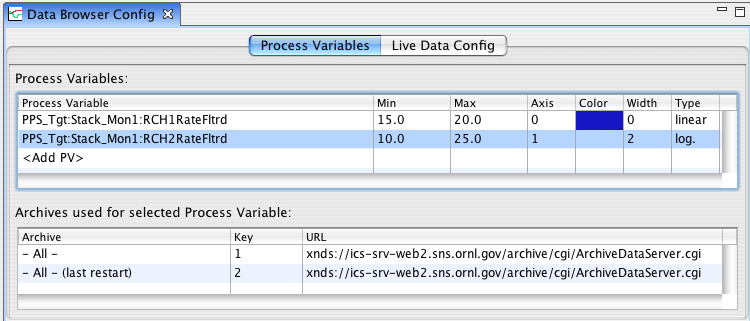
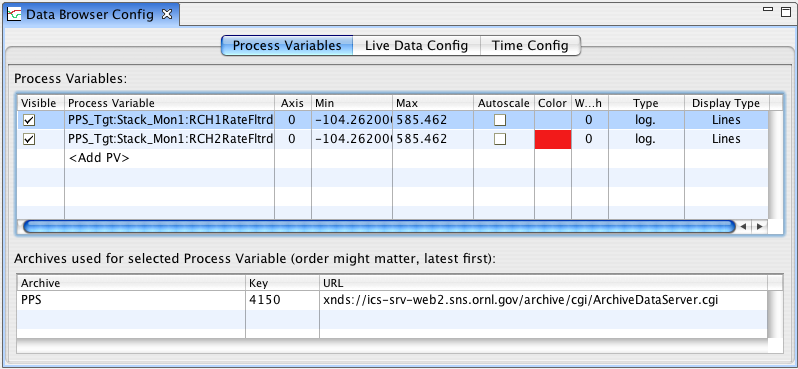
help update

diff --git a/applications/plugins/org.csstudio.trends.databrowser/html/setup.html b/applications/plugins/org.csstudio.trends.databrowser/html/setup.html
@@ -10,7 +10,7 @@ You can open a new Data Browser via the menu item
 <p>
 This will result in an empty plot window
 to which one can then <a href=add_pvs.html>add PVs</a>.
-One can create more than one Data Browser instance.
+You can open more than one Data Browser instance.
 
 <h2>Data Browser Perspective</h2>
 Especially for first-time users it might be
@@ -27,10 +27,11 @@ and select the <pre>Data Browser Perspective</pre> menu item.
 If your screen differs significantly from the snapshow
 shown below, somebody has already customized the
 Data Browser Perspective.
-If you want to reset it, select the menu item
-<pre>Window/Reset Perspective</pre>
+If you want to reset it, select the context menu of the
+perspective (right click on the "Data Browser" tab)
+and select "Reset".
 <p>
-<img src=perspective.png width=785 height=715>
+<img src=perspective.png width=1015 height=650>
 
 <h2>Stopping a Data Browser Instance</h2>
 You can simply close a Data Browser Plot window via the usual
@@ -46,20 +47,16 @@ saving it.
 
 <h2>The Workspace, "Project" Folders</h2>
 All configuration files are saved in "Project" folders in the "Workspace".
-When starting for the very first time, you might have to create
-an initial "Project" folder.
-At later times, you might want to create additional "Project" folders
-to better organize your files.
-<p>
-To create a "Project" folder:
+The CSS Application will create an initial "CSS" project folder for you.
+To create additional ones to better organize your files:
 <ol>
-<li>Unless it is already open, obtain a "Navigator" view,
+<li>Unless it is already open, obtain a "Workspace Explorer" view,
     accessible via the Menu
-   <pre>Window/Show View.../Other/General,Navigator</pre>
+   <pre>Window/Show View.../Other.../Other/Workspace Explorer</pre>
 <li>Each top-level folder in that view is a "Project" in your
     "Workspace".
-    If there is no folder, create at least one via the Navigator context menu
-    <pre>New/Project.../General/Project</pre>
+    Create new projects via the Workspace Explorer context menu
+    <pre>New Project</pre>
     In the resulting "New Project" dialog, enter a project name.
 </ol>
 
@@ -74,8 +71,7 @@ and a "File/Save" menu allows saving changes to the current file name.
 
 <h2>Re-loading a Data Browser Configurations</h2>
 You open a saved Data Browser configuration by double-clicking on the
-configuration file in the "Navigator",
-or via the "Open..." item in the Navigator context menu.
+configuration file in the "Workspace Explorer".
 
 <h2>Creating a new, empty Data Browser Configurations</h2>
 You can of course open a new Data Browser Plot window and then
@@ -84,15 +80,10 @@ use "File/Save As" to save its configuration as shown above.
 Alternatively, you can directly create a new, empty Data Browser
 configuration file like this:
 <ul>
-<li>Opening the "Navigator" view.
-<li>Invoke its context menu
-    <pre>New, Other..., CSS, Data Browser</pre>
-    <br>
-    <img src="new_wizard.png" width=491 height=474/>
+<li>Open the "Workspace Explorer" view.
+<li>Invoke its "New Data Browser" context menu.
 <li>In the resulting dialog, select the Project folder
-    as well as the configuration file name:
-    <p>
-    <img src="new_databrowser.png" width=496 height=294/>
+    as well as the configuration file name.
 </ul>
 
 </body>

diff --git a/applications/plugins/org.csstudio.trends.databrowser/html/plot_window.html b/applications/plugins/org.csstudio.trends.databrowser/html/plot_window.html
@@ -10,10 +10,13 @@ Its title bar displays the name of the associated configuration file,
 or "&lt;not saved&gt;" for a newly created Data Browser instance
 that is not (yet) saved to a configuration file.
 
-<img src=plot.png width=1004 height=589>
+<img src=plot.png width=842 height=591>
 
-<h3>Zoom/Pan Buttons</h3>
-The top row of buttons allows interactive pan and zoom operations.
+<h3>Zoom/Pan Button Bar</h3>
+The button bar on top of the plot window provides interactive pan and zoom
+operations.
+In case the button bar is not visible, use the plot's context menu to
+re-enable it.
 <ul>
 <li>"Up/Down", <img src=../icons/up.gif>/<img src=../icons/down.gif>:<br>
     Move the chart up respectively down.
@@ -31,6 +34,9 @@ The top row of buttons allows interactive pan and zoom operations.
     <br>
     For 2 Axes, one will auto-zoom to fill the upper half of the plot,
     and the other axis data will occupy the lower half of the plot.
+<li>"Default Zoom", <img src=../icons/defaultscale.gif>:<br>
+    Uses the axis limits suggested by the PV. In case none are available,
+    defaults to auto-zoom.
 <li>"Left/Right", <img src=../icons/left.gif>/<img src=../icons/right.gif>:<br> 
     Moves the chart left/right. 
 <li>"X-In/Out", <img src=../icons/x_in.gif> / <img src=../icons/x_out.gif>:<br>
@@ -81,12 +87,16 @@ When dropping onto an existing Y-Axis, the PV is added to that Y-Axis.
 <h3>Context Menu Options</h3>
 The context menu has the following options:
 <ul>
-<li>Remove Markers: Removes all sample markers.
+<li>Show/Hide Button Bar: Toggles the button bar on or off.
+<li>Remove all Markers: Removes all sample markers.
+<li>Remove selected Markers: Removes the selected sample markers. Select them by clicking on them.
 <li>Add PV: Opens dialog box for entering new PV name.
 <li>Config View: Opens the <a href=config_view.html>Config View</a>.
 <li>Archive View: Opens the <a href=archive_view.html>Archive View</a>.
 <li>Sample View: Opens the <a href=sample_view.html>Sample View</a>.
 <li>Export View: Opens the <a href=export_view.html>Export View</a>.
+<li>Open As View: Opens the currently saved data browser configuration file
+    as a read-only 'View'.
 <li>Data Browser Perspective: Selects the <a href=setup.html>Data Browser Perspective</a>.
 </ul>
 

diff --git a/applications/plugins/org.csstudio.trends.databrowser/html/config_view.html b/applications/plugins/org.csstudio.trends.databrowser/html/config_view.html
@@ -7,9 +7,9 @@
 Most of the configuration is adjusted in this view,
 accessible via the context menu of the plot window.
 <br>
-It has two sub-sections or "tabs".
+It has several sub-sections or "tabs".
 
-<img src=config.png width=750 height=321/>
+<img src=config.png width=798 height=369/>
 
 <h3>"Process Variables" Tab</h3>
 This subsection configures which PVs are shown in the plot and how.
@@ -27,9 +27,10 @@ The "Min" and "Max" settings determine the Y-Axis range. The "Type" selects
 a linear or log. axis. Since these settings modify the Y-Axis, they percolate
 to all PVs on that axis.
 
-<h4>Archive Table</h4>
-This table lists the archive data sources which are used to read samples
-for the selected PV.
+<h4>Archive Table, Formula</h4>
+The lower half of the PV tab changes depending on the PV type.
+For PVs, it displays a table for archive data sources which are used to
+read samples for the selected PV
 <p>
 To add archive data sources, Drag-and-Drop from the
 <a href=archive_view.html>Archive View</a>
@@ -39,6 +40,8 @@ or onto a selected PV in the config view.
 Then, you can rearrange the order of 
 archives for a PV via the context menu
 of the "Archives used for ..." table.
+<p>
+For formulas, the formula is shown.
 
 <h3>"Live Data Config" Tab</h3>
 This subsection configures how often 'live'
@@ -49,6 +52,14 @@ every 4 seconds.
 Note that redraws are quite costly in terms of CPU usage, so
 reducing the redraw rate by increasing the update period can
 help to reduce the CPU load.
+
+<h3>"Time Config" Tab</h3>
+Allows entry of the start and end time.
+<p>
+For a "scrolling" display, enter relative times that end in "now", for
+example a start specification of "-30 minutes" and an end of "now".
+Use the start/end time dialog, accessible via the "..." buttons,
+if the start/end time syntax is unclear.
 
 </body>
 </html>

diff --git a/applications/plugins/org.csstudio.trends.databrowser/html/databrowser.html b/applications/plugins/org.csstudio.trends.databrowser/html/databrowser.html
@@ -13,7 +13,7 @@ and plot them over time. The size of this 'live' sample buffer is configurable,
 as is the sample period.
 When selecting a time range that lies 'before' this live sample buffer,
 the tool will query an archive data source for historic samples.
-One can configure one or more such data source for each PV.
+You can configure one or more archive data source for each PV.
 
 <ol>
 <li> <a href=setup.html>Starting, Setup, Saving and Re-loading Configuration Files</a>
@@ -26,9 +26,7 @@ One can configure one or more such data source for each PV.
 <li> <a href=sampling.html>Internals</a>
 </ol>
 
-<img src=plot.png width=1004 height=589>
-
-
+<img src=plot.png width=842 height=591>
 
 </body>
 </html>
